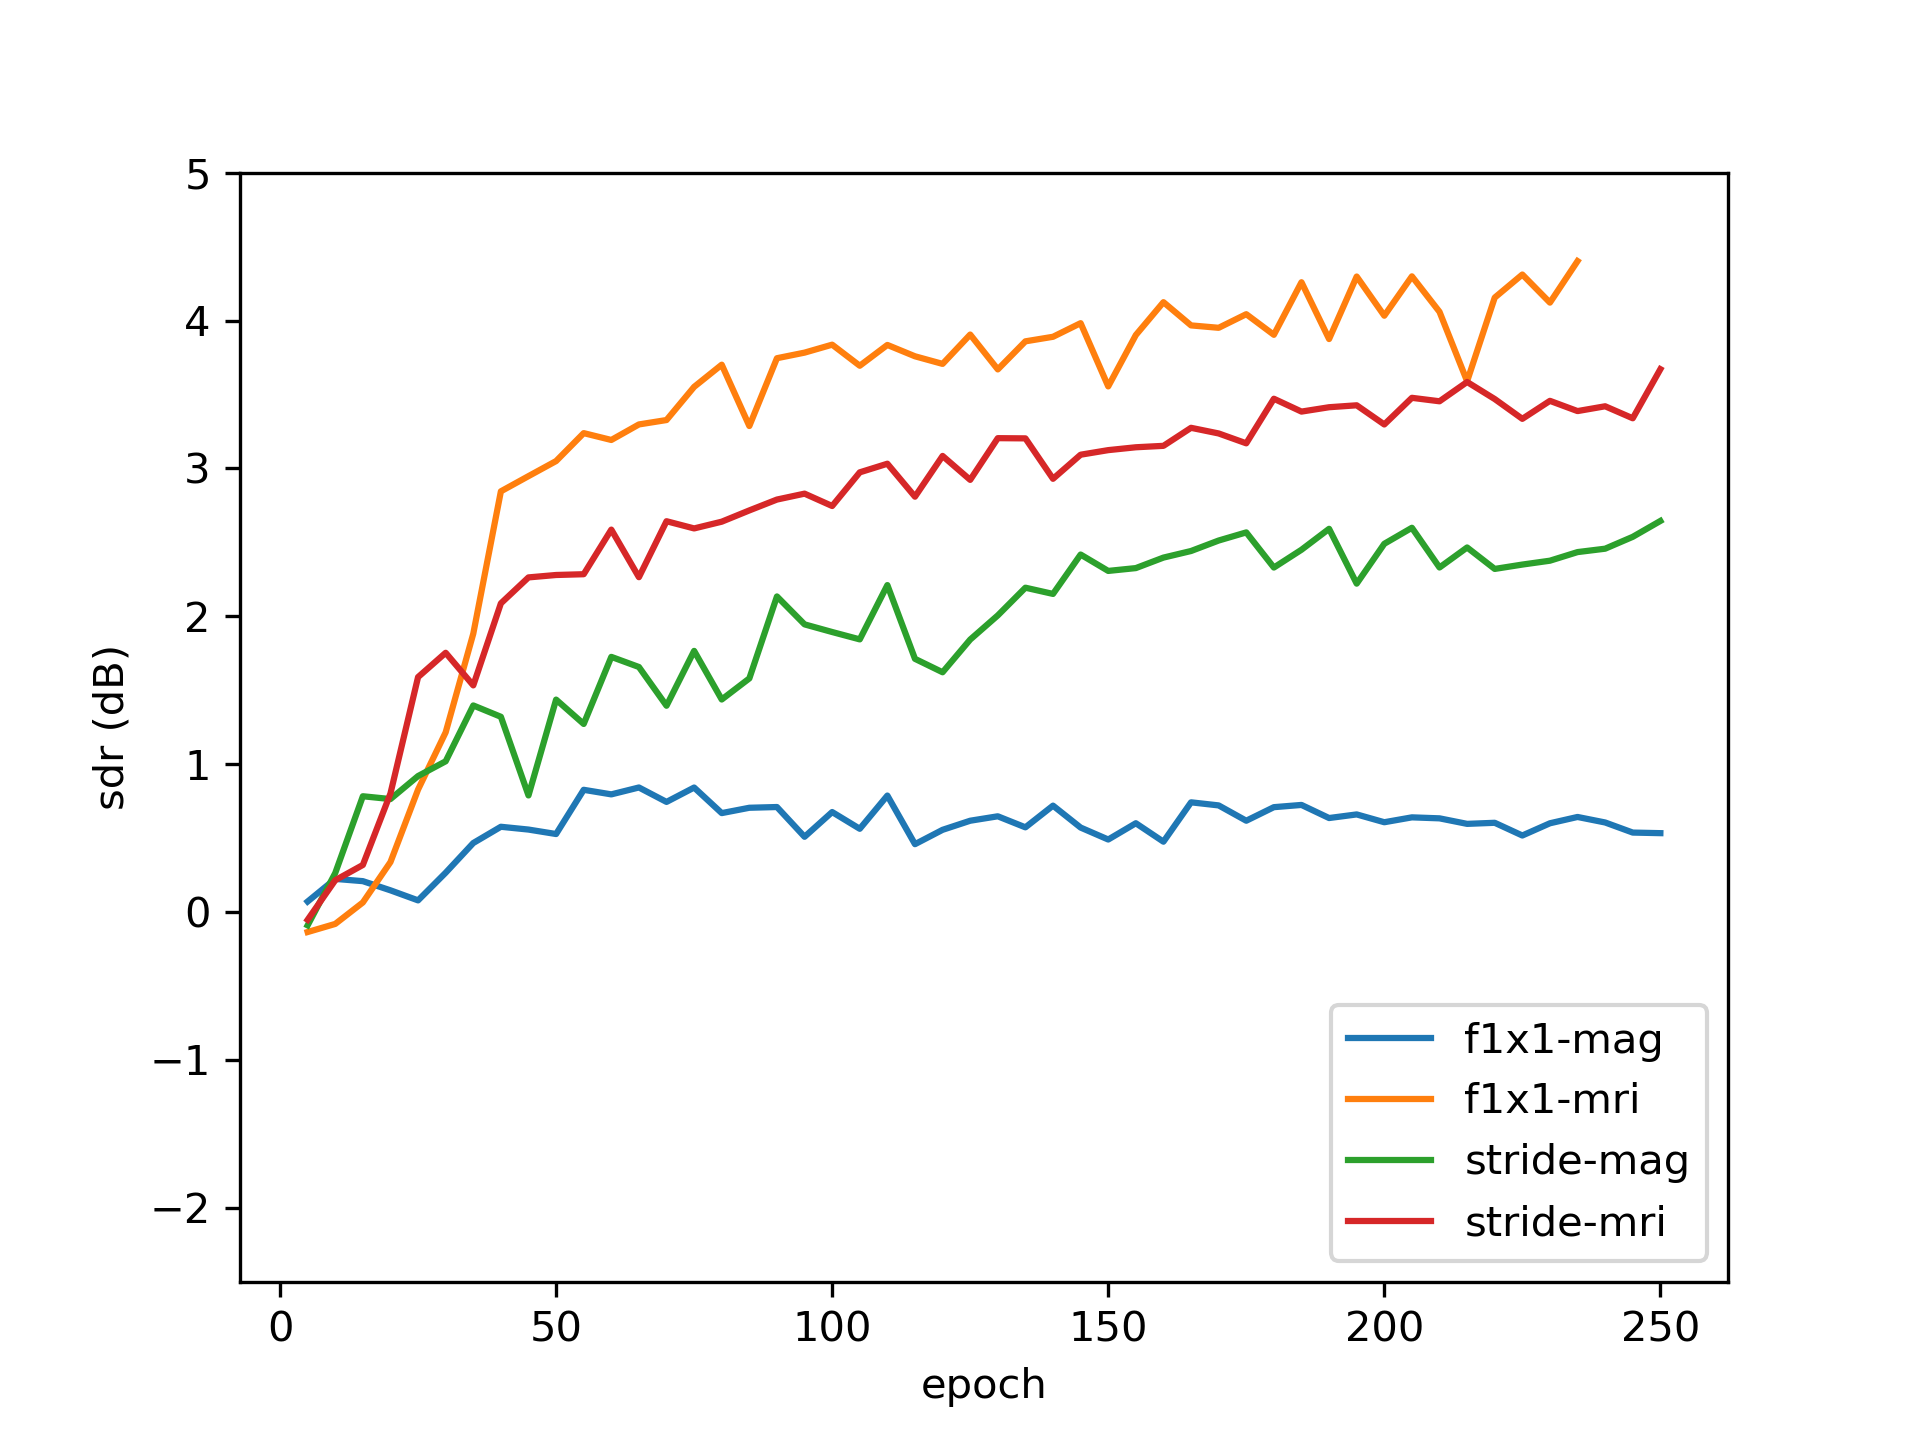
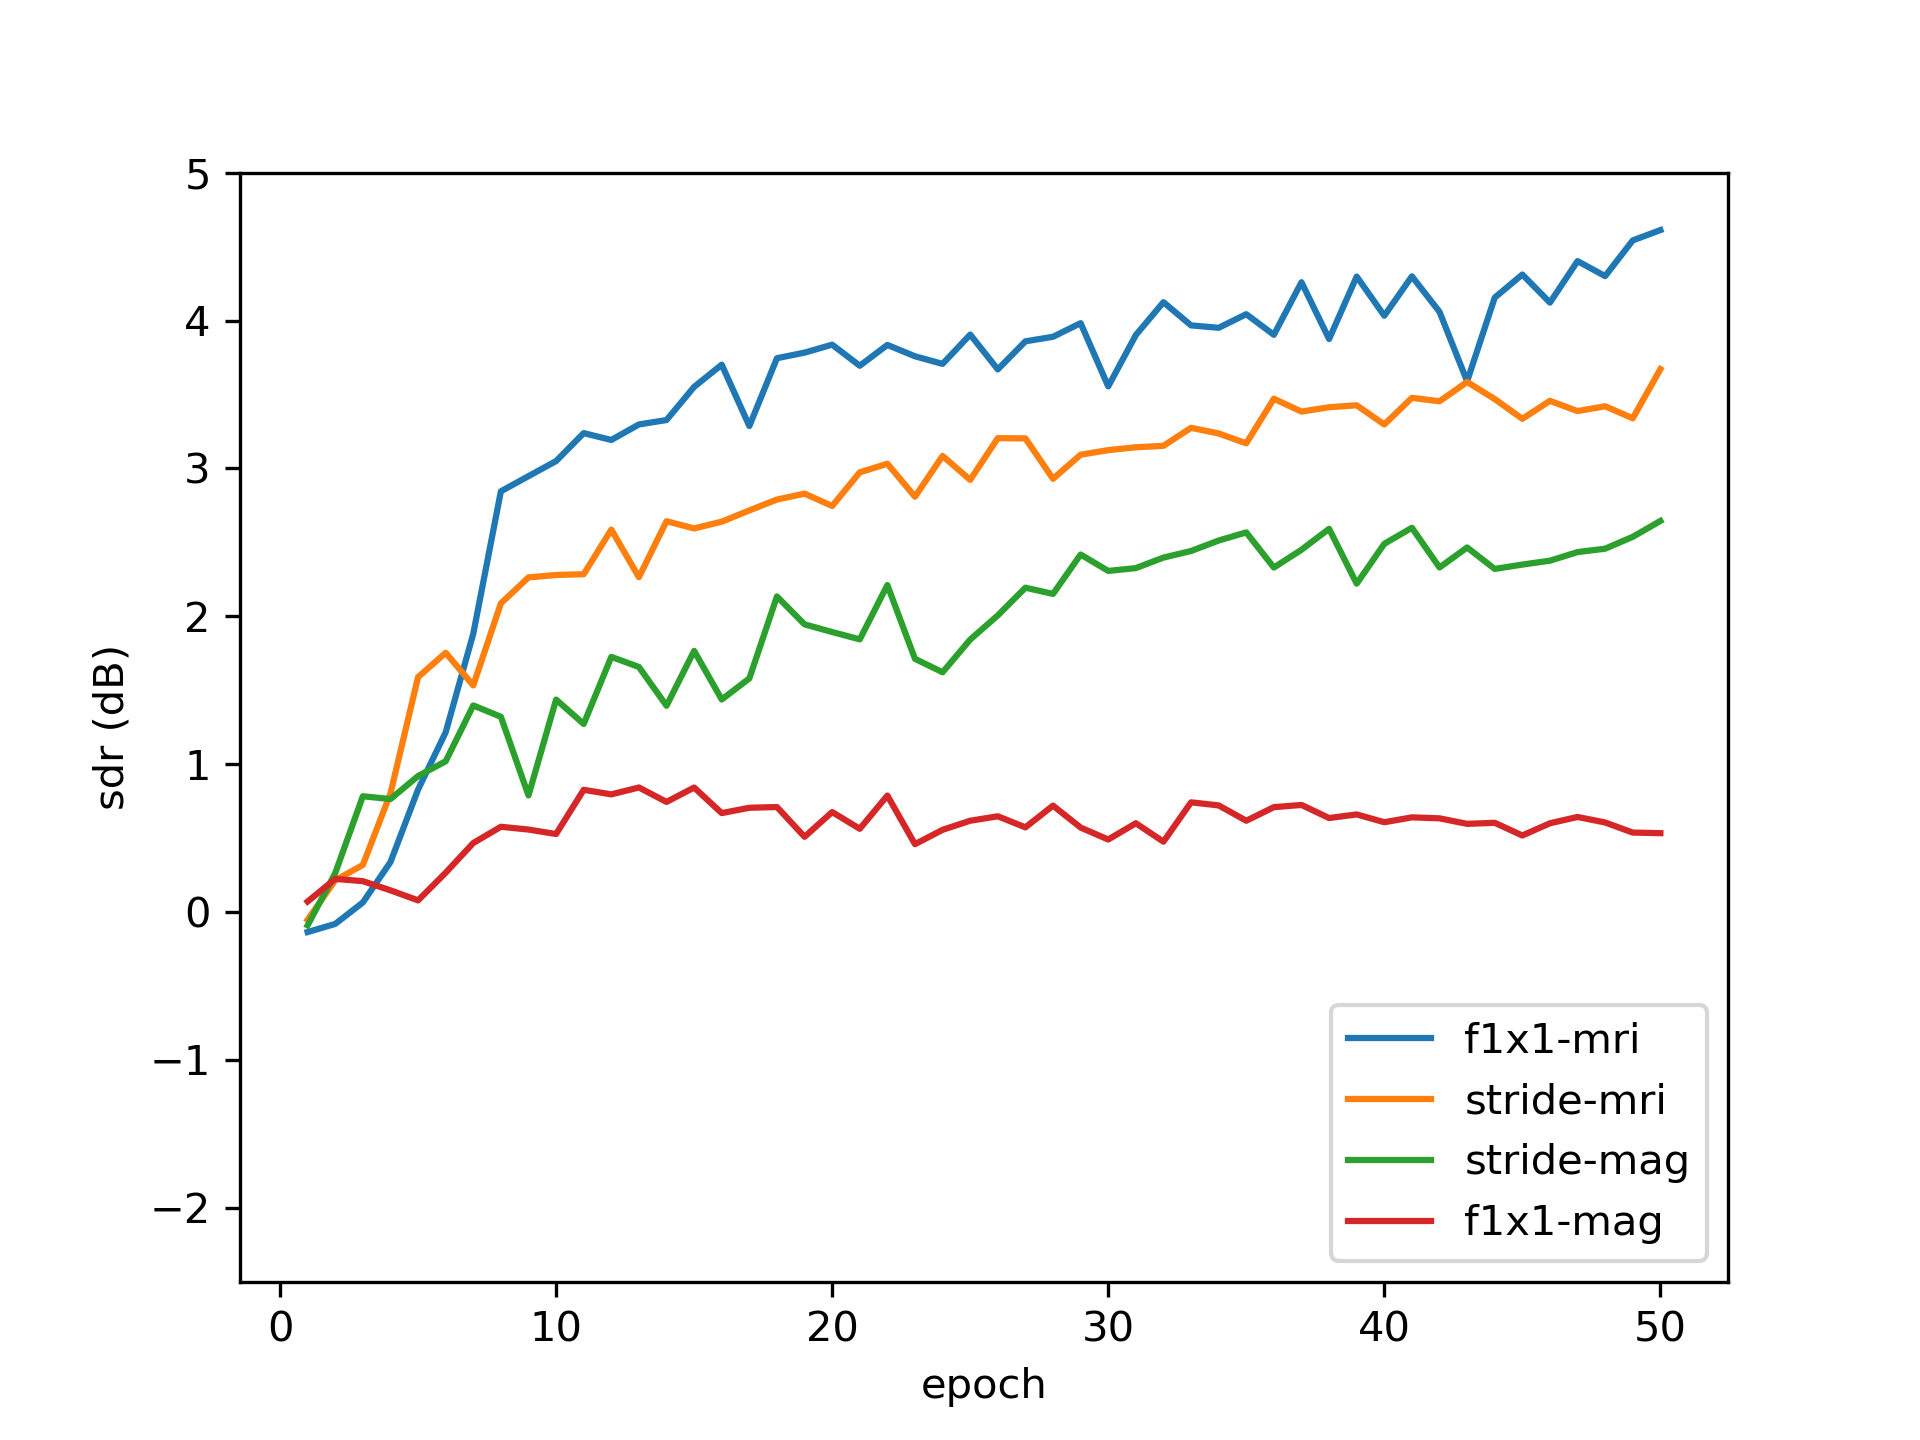
fix bin to hz, khz

diff --git a/plot/sdr_epoch.py b/plot/sdr_epoch.py
@@ -6,6 +6,13 @@ from pathlib import Path
 data_folder = Path('data')
 files = os.listdir(data_folder)
 
+a = files[0]
+b = files[1]
+c = files[2]
+d = files[3]
+
+files = [b, d, c, a]
+
 plt.figure(dpi=300)
 for file in files:
     csv_file = data_folder / file
@@ -13,7 +20,7 @@ for file in files:
     with open(csv_file, 'r') as f:
         r = csv.reader(f)
         next(r)
-        a = [(time, int(epoch), float(sdr)) for time, epoch, sdr in r]
+        a = [(time, int(epoch) // 5, float(sdr)) for time, epoch, sdr in r]
         times, epochs, sdrs = zip(*a)
         print(epochs)
         print(sdrs)
@@ -26,5 +33,5 @@ plt.ylabel("sdr (dB)")
 plt.ylim(-2.5, 5)
 plt.legend(loc='lower right')
 
-plt.show()
-# plt.savefig('sdr_epoch.png')
+# plt.show()
+plt.savefig('sdr_epoch.png')
